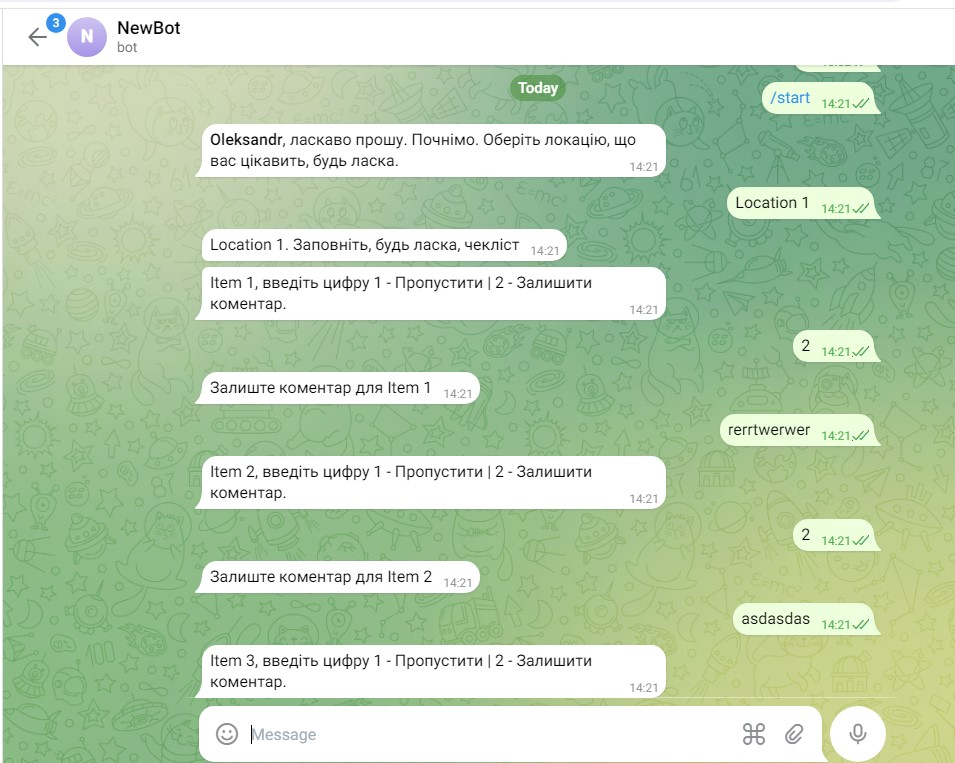
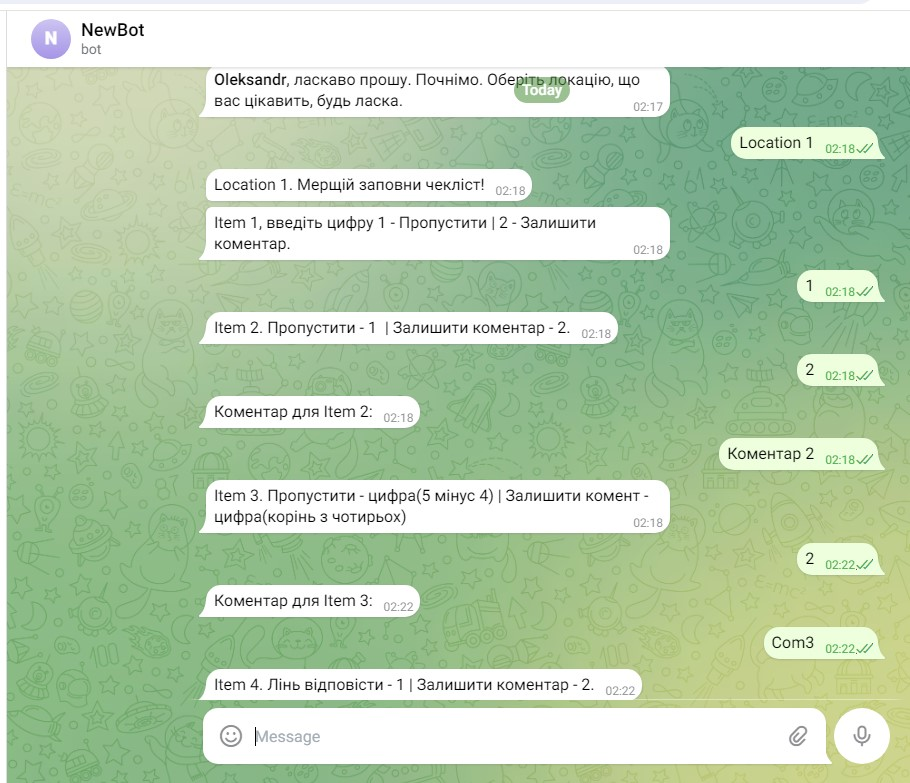
added new pic with improved text

diff --git a/README.md b/README.md
@@ -6,7 +6,9 @@ venv\scripts\activate
 
 pip install -r requirements.txt
 
-py main.py ; open Telegram API bot and enjoy
+py main.py
+
+Finally, open Telegram API bot. Enjoy.
 
 ## Results
 
@@ -17,6 +19,4 @@ py main.py ; open Telegram API bot and enjoy
 <img src="images/telegram_bot3.jpg"/>
 
 ## 
-Поки що не маю ChatGpt 4, щоб відкорегувати/покращити ChatGPT запит/відповідь
-
-telegbot_aiogr3.3 папку проігноруйте.
+p.s telegbot_aiogr3.3 папку проігноруйте
